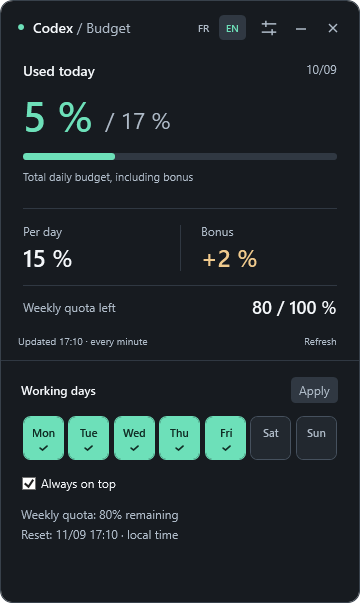
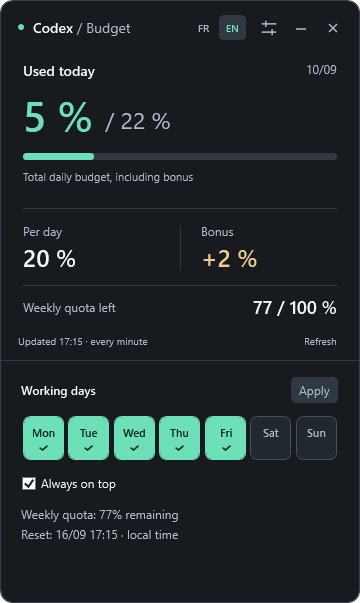
Align demo budget with five working days and pair README screenshots

diff --git a/codex-budget-widget/README.md b/codex-budget-widget/README.md
@@ -5,15 +5,13 @@
 
 [English](#english) · [Français](#français)
 
-![Budget Codex widget with settings open / Widget Budget Codex avec les réglages ouverts](../docs/images/widget-settings.png)
+| Français | English |
+| :---: | :---: |
+| <img src="../docs/images/widget-settings.png" alt="Widget en français avec les réglages ouverts" width="300"> | <img src="../docs/images/widget-settings-en.png" alt="English widget with settings open" width="300"> |
 
-*Demo figures · Chiffres de démonstration*
+*Demo figures: 5 working days = 20% per day. / Démonstration : 5 jours travaillés = 20 % par jour.*
 
 ## English
-
-![English interface with settings open](../docs/images/widget-settings-en.png)
-
-*Demo figures.*
 
 Budget Codex is a small Windows desktop widget that helps you plan your Codex usage until the next weekly reset. Choose your working days and keep your daily budget, carryover and remaining weekly quota in view.
 

diff --git a/README.md b/README.md
@@ -5,15 +5,13 @@
 
 [English](#english) · [Français](#français)
 
-![Budget Codex widget with settings open / Widget Budget Codex avec les réglages ouverts](docs/images/widget-settings.png)
+| Français | English |
+| :---: | :---: |
+| <img src="docs/images/widget-settings.png" alt="Widget en français avec les réglages ouverts" width="300"> | <img src="docs/images/widget-settings-en.png" alt="English widget with settings open" width="300"> |
 
-*Demo figures · Chiffres de démonstration*
+*Demo figures: 5 working days = 20% per day. / Démonstration : 5 jours travaillés = 20 % par jour.*
 
 ## English
-
-![English interface with settings open](docs/images/widget-settings-en.png)
-
-*Demo figures.*
 
 Budget Codex is a small Windows desktop widget that helps you plan your Codex usage until the next weekly reset. Choose your working days and keep your daily budget, carryover and remaining weekly quota in view.
 
